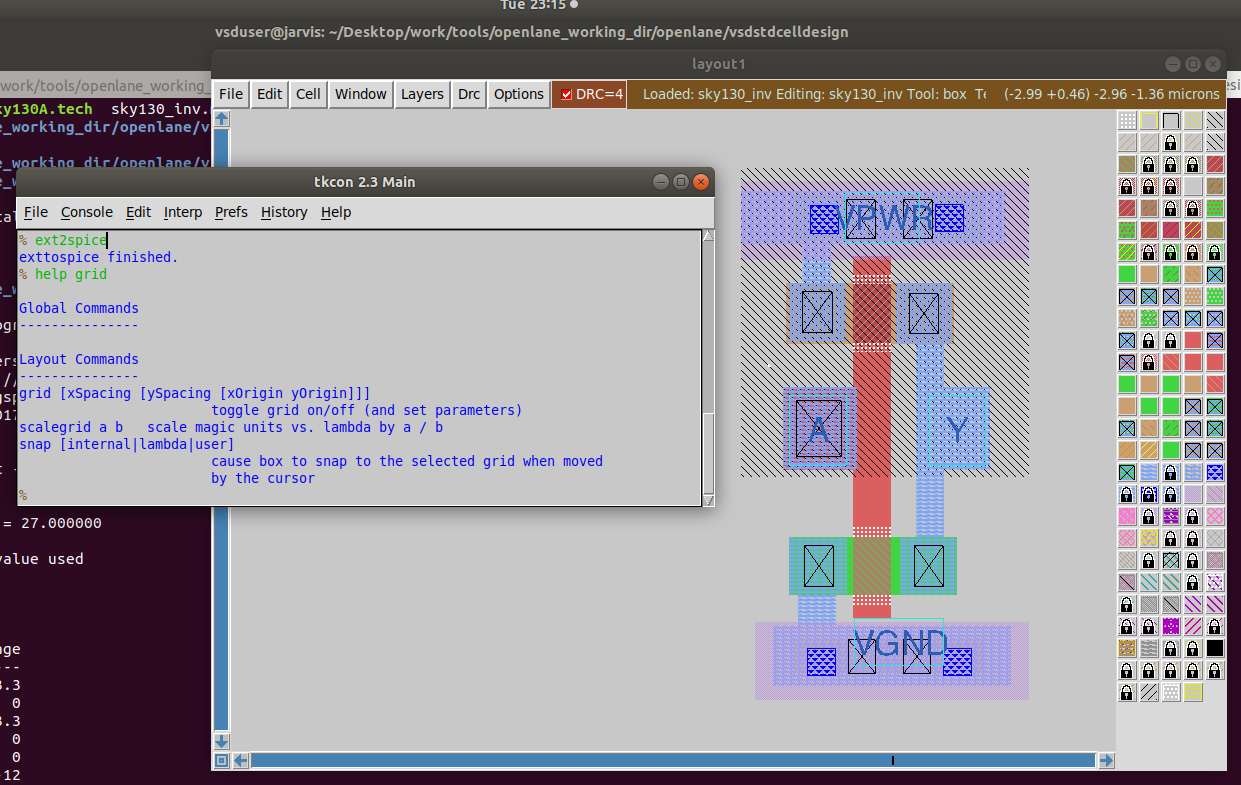
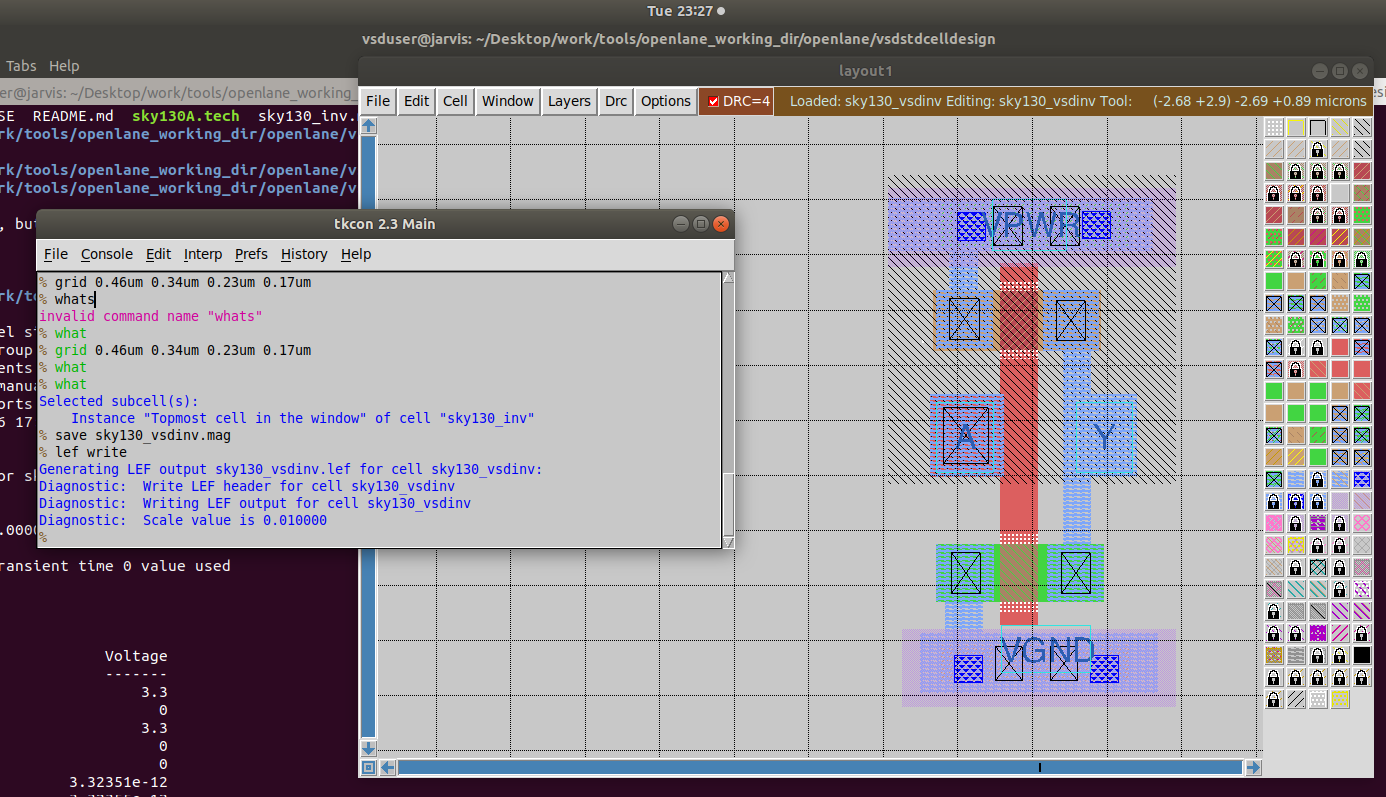
week6

diff --git a/Day4/README.md b/Day4/README.md
@@ -25,3 +25,21 @@ whats
 ![alt text](image-1.png)
 
 in console
+
+```bash
+save sky130_vsdinv.mag
+lef write
+```
+
+![alt text](image.png)
+
+Viewing Generated LEF File Commands to Open LEF:
+```bash
+cd vsdstdcelldesign
+less sky130_vsdinv.lef
+```
+Opening LEF File:
+
+![alt text](image-1.png)
+
+
